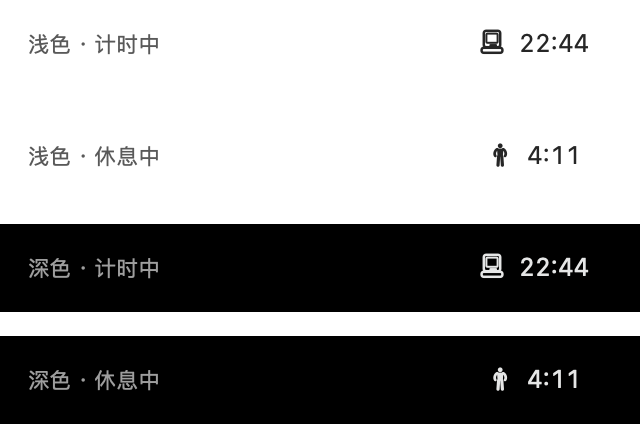
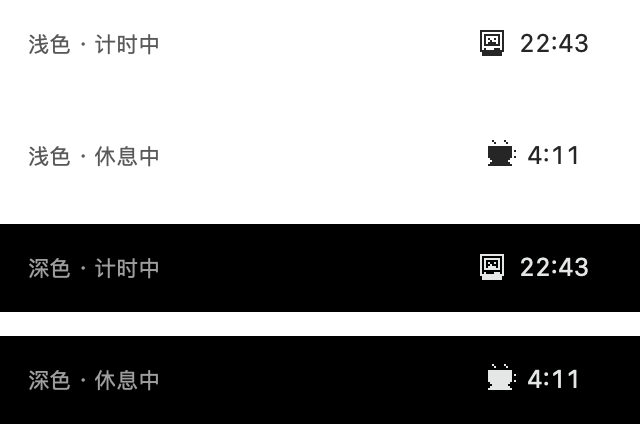
计时图标按参考图重绘为 8bit 麦金塔，休息恢复像素咖啡杯；液体再增强

diff --git a/Sources/PixelIcon.swift b/Sources/PixelIcon.swift
@@ -1,0 +1,85 @@
+import AppKit
+
+/// 8-bit 像素图标：16×16 字符画渲染成模板位图（每格 2×2 设备像素，2x 屏上边缘是硬的）。
+enum PixelIcon {
+
+    /// 计时状态：经典麦金塔（参考图重绘）
+    static let mac = make(macArt)
+
+    /// 休息状态：冒热气的咖啡杯
+    static let coffee = make(coffeeArt)
+
+    // MARK: - 字符画
+
+    private static let macArt: [String] = [
+        "................",
+        "..############..",
+        "..#..........#..",
+        "..#.########.#..",
+        "..#.#......#.#..",
+        "..#.#.#..#.#.#..",
+        "..#.#..#...#.#..",
+        "..#.#.####.#.#..",
+        "..#.########.#..",
+        "..#..........#..",
+        "..#.#....###.#..",
+        "..############..",
+        "...##########...",
+        "...##########...",
+        "................",
+        "................",
+    ]
+
+    private static let coffeeArt: [String] = [
+        "....#.....#.....",
+        ".....#.....#....",
+        "................",
+        "..############..",
+        "..############..",
+        "..############.##",
+        "..############..#",
+        "..############..#",
+        "..############.##",
+        "...##########...",
+        "....########....",
+        "...##########...",
+        "..############..",
+        "................",
+        "................",
+        "................",
+    ]
+
+    // MARK: - 渲染
+
+    private static func make(_ art: [String]) -> NSImage {
+        let height = art.count
+        let width = art.first?.count ?? 16
+        let scale = 2
+
+        let rep = NSBitmapImageRep(bitmapDataPlanes: nil,
+                                   pixelsWide: width * scale,
+                                   pixelsHigh: height * scale,
+                                   bitsPerSample: 8, samplesPerPixel: 4, hasAlpha: true,
+                                   isPlanar: false, colorSpaceName: .deviceRGB,
+                                   bytesPerRow: 0, bitsPerPixel: 0)!
+        rep.size = NSSize(width: CGFloat(width), height: CGFloat(height))
+
+        NSGraphicsContext.saveGraphicsState()
+        NSGraphicsContext.current = NSGraphicsContext(bitmapImageRep: rep)
+        NSGraphicsContext.current?.shouldAntialias = false
+        NSColor.black.setFill()
+
+        for (row, line) in art.enumerated() {
+            for (col, ch) in line.enumerated() where ch == "#" {
+                NSRect(x: CGFloat(col), y: CGFloat(height - 1 - row), width: 1, height: 1).fill()
+            }
+        }
+
+        NSGraphicsContext.restoreGraphicsState()
+
+        let image = NSImage(size: NSSize(width: CGFloat(width), height: CGFloat(height)))
+        image.addRepresentation(rep)
+        image.isTemplate = true
+        return image
+    }
+}

diff --git a/Sources/main.swift b/Sources/main.swift
@@ -42,7 +42,7 @@ final class AppDelegate: NSObject, NSApplicationDelegate, NSPopoverDelegate {
         let font = NSFont.monospacedDigitSystemFont(ofSize: 12.5, weight: .regular)
         let textWidth = ceil(NSAttributedString(string: "888:88", attributes: [.font: font]).size().width)
         let timerIconWidth = ceil(StatusIcon.mac.size.width)
-        let coffeeIconWidth = ceil(StatusIcon.person.size.width)
+        let coffeeIconWidth = ceil(StatusIcon.coffee.size.width)
         // 两种状态都是「图标 + 时间」，取更宽的一档
         return max(timerIconWidth, coffeeIconWidth) + textWidth + 20
     }
@@ -59,7 +59,7 @@ final class AppDelegate: NSObject, NSApplicationDelegate, NSPopoverDelegate {
             let font = NSFont.monospacedDigitSystemFont(ofSize: 12.5, weight: .regular)
             button.attributedTitle = NSAttributedString(string: " " + timeText, attributes: [.font: font])
         }
-        let icon = isRest ? StatusIcon.person : StatusIcon.mac
+        let icon = isRest ? StatusIcon.coffee : StatusIcon.mac
         if button.image !== icon {
             button.image = icon
         }
@@ -266,7 +266,7 @@ final class AppDelegate: NSObject, NSApplicationDelegate, NSPopoverDelegate {
 
 
         if let prefix = env["POMODORO_DUMP_ICONS"] {
-            let icons: [(String, NSImage)] = [("mac", StatusGlyph.mac), ("person", StatusGlyph.person)]
+            let icons: [(String, NSImage)] = [("mac", PixelIcon.mac), ("coffee", PixelIcon.coffee)]
             for (name, icon) in icons {
                 let scale: CGFloat = 8
                 let size = NSSize(width: icon.size.width * scale, height: icon.size.height * scale)

diff --git a/Sources/DialLiquid.swift b/Sources/DialLiquid.swift
@@ -39,8 +39,8 @@ struct DialLiquid: View {
                 // 本体：低对比的银灰，径向在边缘之前就淡出（不出现硬边）
                 let core = dark ? Color(white: 0.92) : Color(red: 0.52, green: 0.58, blue: 0.68)
                 let body = Gradient(stops: [
-                    .init(color: core.opacity(dark ? 0.24 : 0.32), location: 0.00),
-                    .init(color: core.opacity(dark ? 0.19 : 0.26), location: 0.55),
+                    .init(color: core.opacity(dark ? 0.30 : 0.42), location: 0.00),
+                    .init(color: core.opacity(dark ? 0.24 : 0.34), location: 0.55),
                     .init(color: core.opacity(0.0), location: 0.92),
                 ])
                 context.fill(path, with: .radialGradient(body,
@@ -55,7 +55,7 @@ struct DialLiquid: View {
                 let hlCenter = CGPoint(x: blobCenter.x - blobRadius * 0.26,
                                        y: blobCenter.y - blobRadius * 0.24)
                 let hlGradient = Gradient(colors: [
-                    Color.white.opacity(dark ? 0.22 : 0.55),
+                    Color.white.opacity(dark ? 0.26 : 0.62),
                     Color.white.opacity(0.0),
                 ])
                 highlight.fill(Path(ellipseIn: CGRect(x: hlCenter.x - hlRadius,
@@ -68,7 +68,7 @@ struct DialLiquid: View {
                                                      endRadius: hlRadius))
             }
             // 整体再糊一层：边缘彻底化进背景，只在明暗上留下流动的痕迹
-            .blur(radius: 8.5)
+            .blur(radius: 7)
         }
         .clipShape(Circle())
         .allowsHitTesting(false)

diff --git a/Sources/StatusIcon.swift b/Sources/StatusIcon.swift
@@ -1,9 +1,9 @@
 import AppKit
 
-/// 菜单栏图标入口：黑白模板图，跟随菜单栏深浅色与高亮自动反色。
+/// 菜单栏图标：8-bit 像素模板图，跟随菜单栏深浅色与高亮自动反色。
 enum StatusIcon {
     /// 计时状态：经典麦金塔
-    static let mac: NSImage = StatusGlyph.mac
-    /// 休息状态：双手叉腰的人形
-    static let person: NSImage = StatusGlyph.person
+    static let mac: NSImage = PixelIcon.mac
+    /// 休息状态：冒热气的咖啡杯
+    static let coffee: NSImage = PixelIcon.coffee
 }

diff --git a/README.md b/README.md
@@ -75,7 +75,7 @@ open /Applications/Pomodoro.app
 
 ## 功能
 
-- **菜单栏常驻倒计时**：计时状态是麦金塔图标 + `24:59`，休息状态换成双手叉腰的人形 + `4:10`
+- **菜单栏常驻倒计时**：计时状态是像素麦金塔 + `24:59`，休息状态换成冒热气的像素咖啡杯 + `4:10`
 - **毫秒显示**：面板里秒后面跟两位毫秒（`29:13.99`，50fps 刷新）；状态栏仍只显示到秒
 - **点击开面板**：环形进度、大号等宽时间、胶囊按钮；右键图标可直接退出
 - **点击表盘**：直接点圆形表盘即可开始 / 暂停 / 继续（悬停时光标变手型、状态文字提示当前动作）
@@ -116,9 +116,8 @@ rm -rf /Applications/Pomodoro.app
 
 - **状态栏**：`NSStatusItem` + 固定宽度（按两种像素图标里更宽的一档算），倒计时位数在
   `5:00` / `25:00` / `180:00` 之间变化都不会让 item 伸缩——否则锚定其上的面板会跟着左右跳。
-- **状态栏图标**：`StatusGlyph` 用 `NSBezierPath` 画两枚 16pt 画布、字形约 14pt 高的黑白模板图——
-  计时是经典麦金塔（机身/屏幕/软驱/底座），休息是双手叉腰的人形；模板渲染，
-  自动跟随菜单栏深浅色与高亮反色，尺寸与系统菜单栏图标一致。
+- **状态栏图标**：`PixelIcon` 用 16×16 字符画渲染成模板位图（每格 2×2 设备像素，2x 屏上边缘是硬的）——
+  计时是经典麦金塔（屏幕里还有小表情），休息是冒热气的咖啡杯；模板渲染，深浅色自动反色。
 - **面板**：`NSPopover` + SwiftUI。`NSPopover` 自带的菜单栏定位会把面板顶出屏幕上沿
   （顶部被裁），因此另做了屏幕几何校正，把面板夹在图标正下方与可见区域内。
 - **统一配色**：表盘与主按钮在任何状态都是「浅色底 + 强调色文字 + 细描边」，
@@ -147,7 +146,7 @@ rm -rf /Applications/Pomodoro.app
 │   ├── PomodoroEngine.swift  # 计时状态机 + 持久化 + 每日归零
 │   ├── PopoverView.swift     # SwiftUI 面板
 │   ├── DialLiquid.swift      # 表盘里的水银液体
-│   ├── StatusGlyph.swift     # 状态栏图标（麦金塔 / 叉腰人形）
+│   ├── PixelIcon.swift       # 8-bit 像素图标（麦金塔 / 咖啡杯）
 │   ├── StatusIcon.swift      # 菜单栏图标入口
 │   ├── SoundFX.swift         # 按钮点击音
 │   └── WatchBeep.swift       # 结束提示音（含合成兜底）
